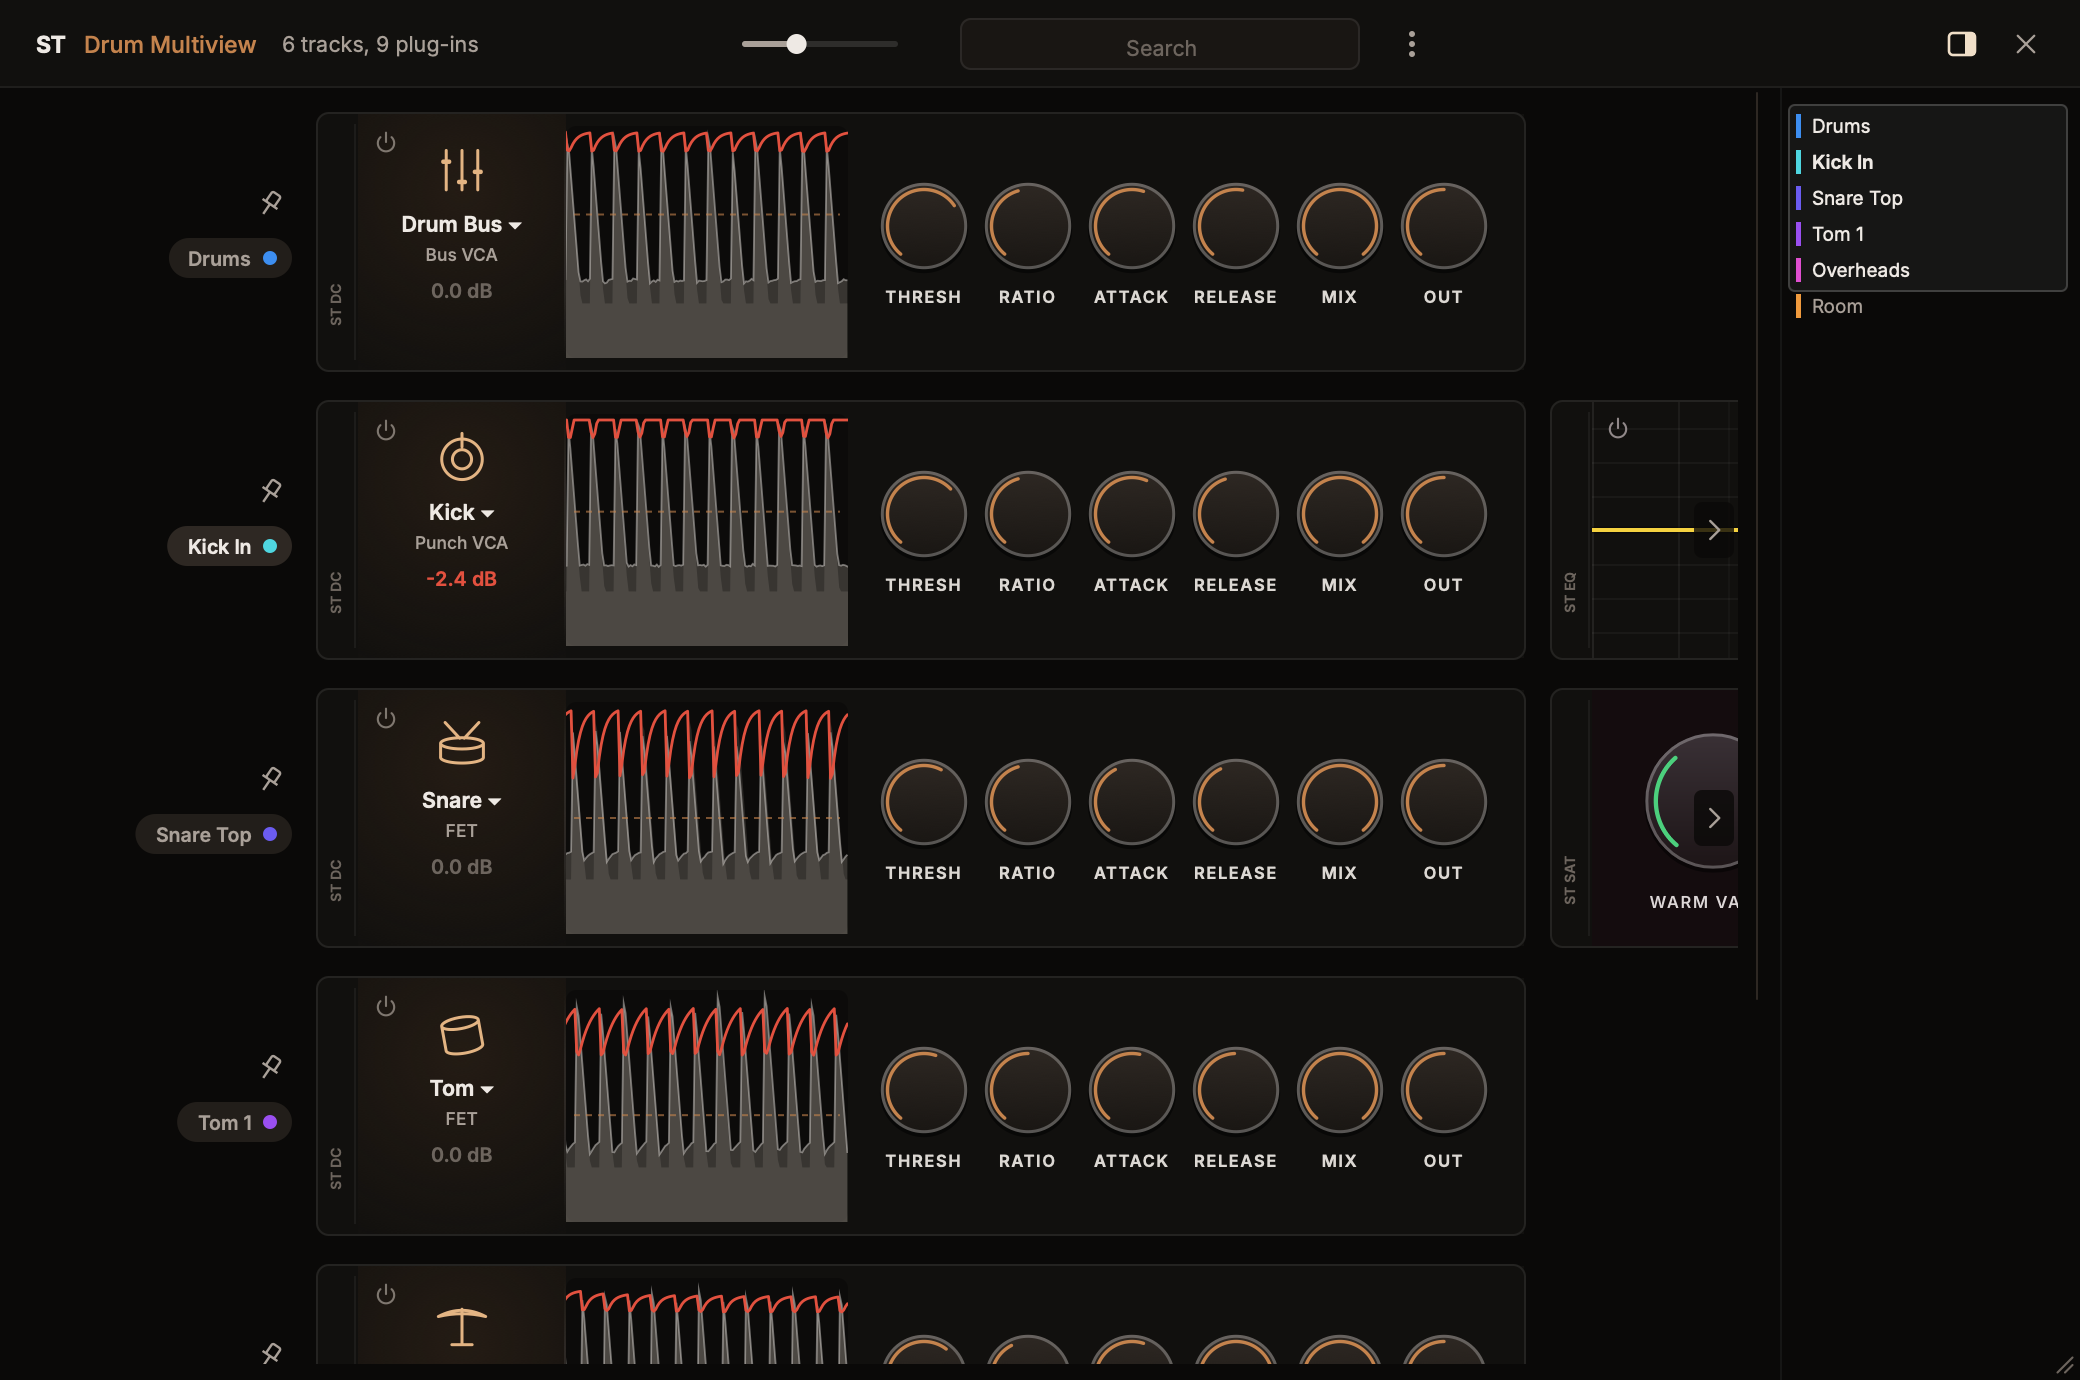
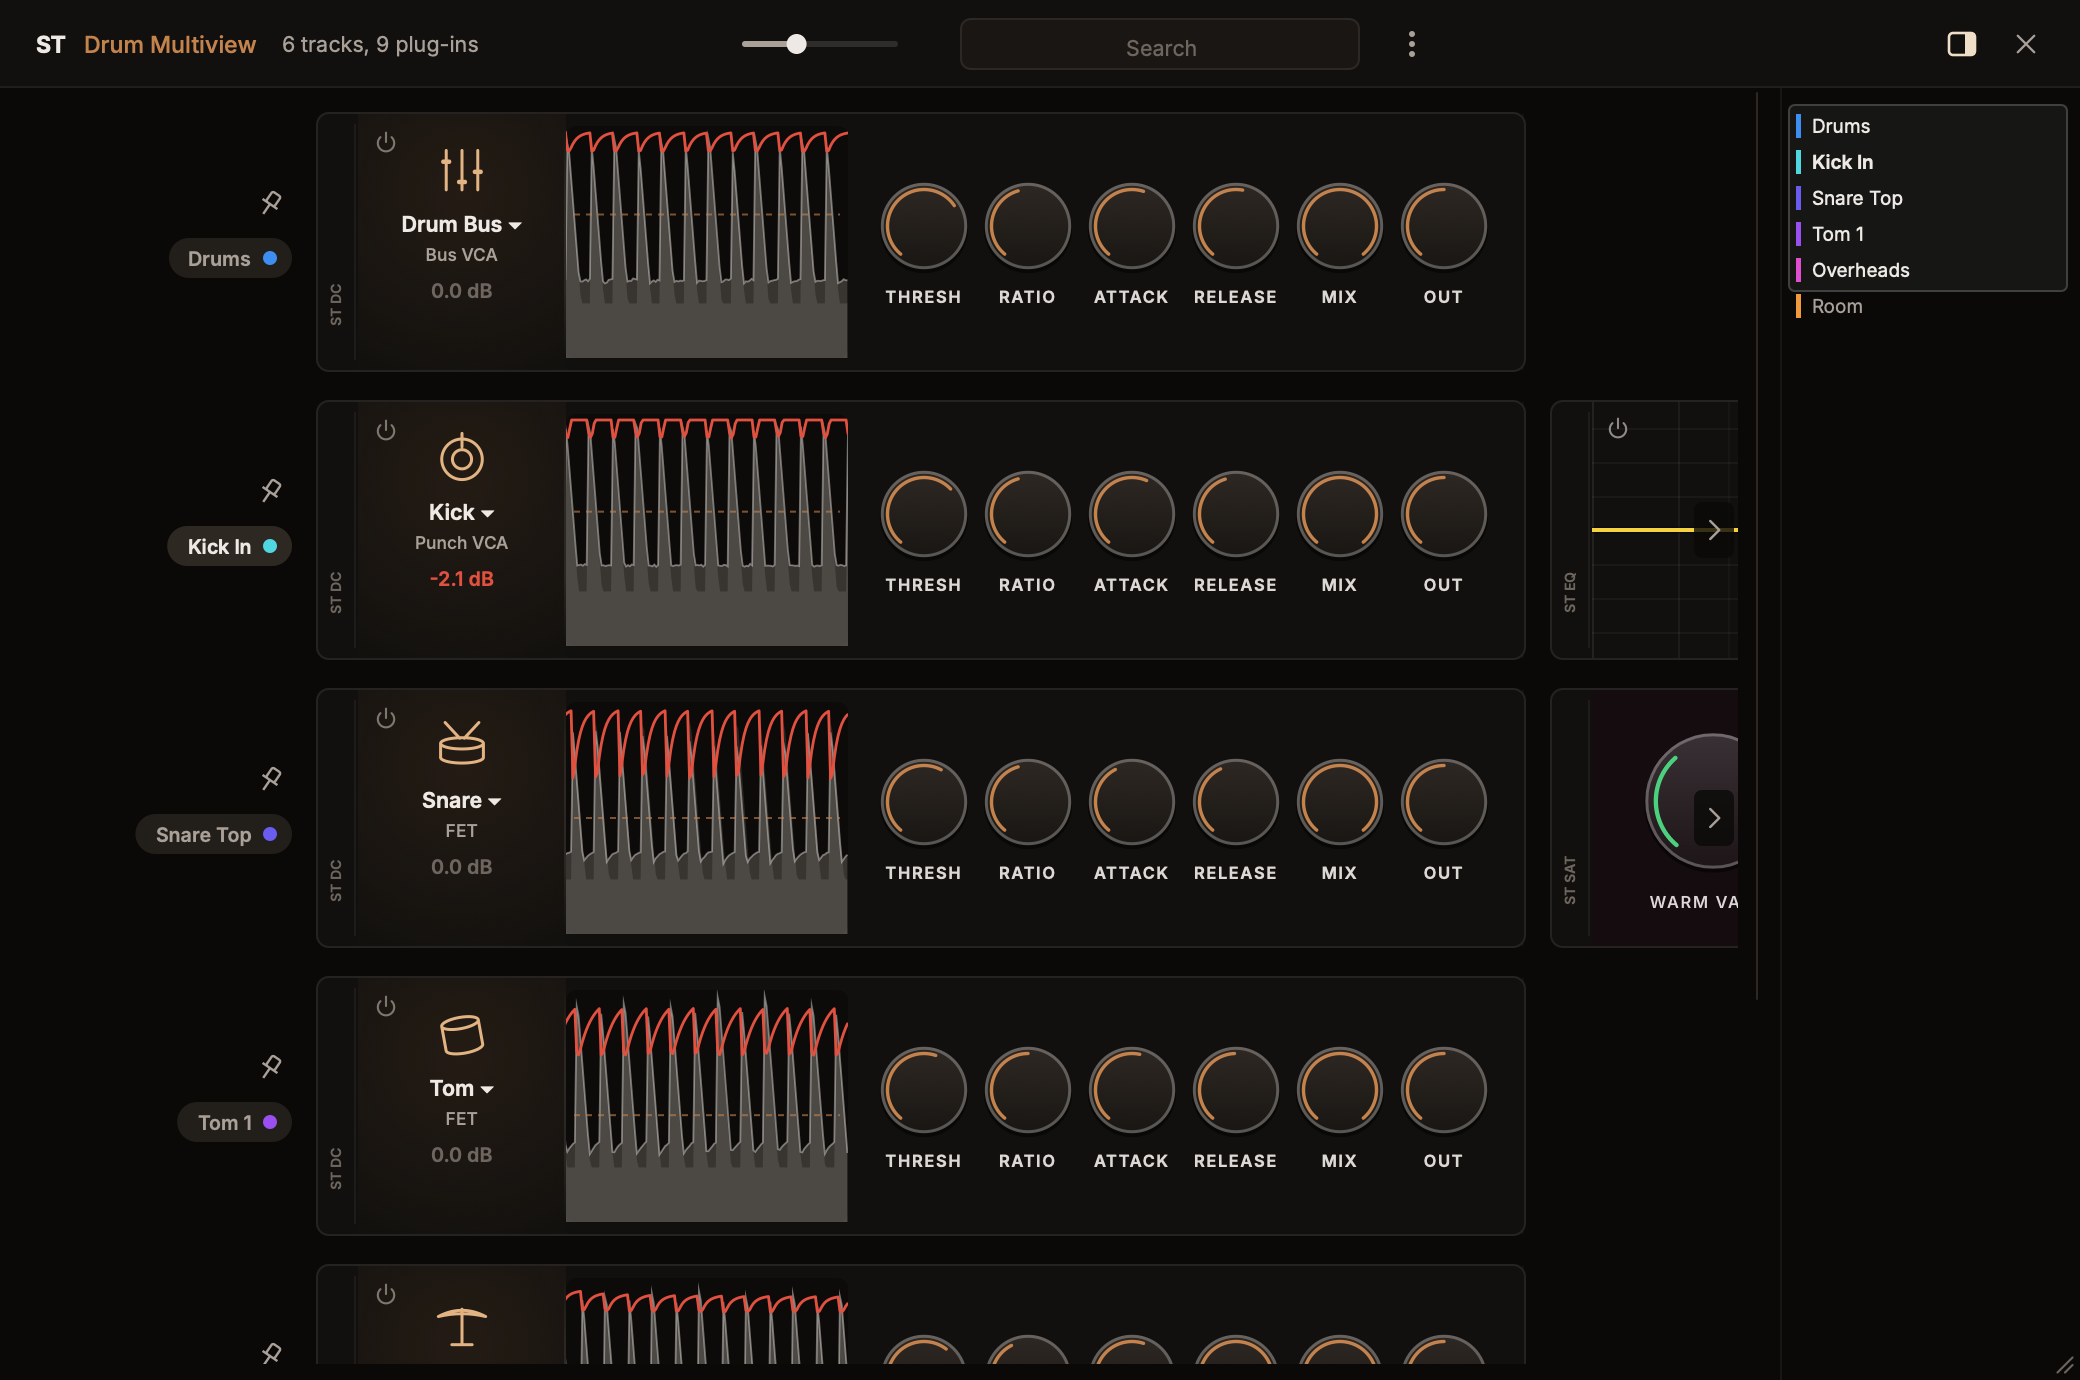
Drum part sidebar: just the part names (0.1.3)
The engine each part runs is no longer printed under its name; the
Engine menu above the threshold and the caption on the level display
still show it.

Changed region(s): [[0.25, 0.2804, 0.4062, 0.4051], [0.2188, 0.4051, 0.25, 0.4362]]

diff --git a/Source/ui/Panels.cpp b/Source/ui/Panels.cpp
@@ -25,10 +25,9 @@ int RoleSelector::rowAt (juce::Point<float> p) const
 
 void RoleSelector::timerCallback()
 {
-    const int r = proc.getRole(), e = proc.apvts.getRawParameterValue (ids::engine)->load() > 0.5f ? (int) proc.getAlgorithm() : -1;
-    bool dirty = r != role || e != engine;
+    const int r = proc.getRole();
+    bool dirty = r != role;
     role = r;
-    engine = e;
     lit.setTarget ((float) role);
     dirty |= lit.tick (1.0 / 60.0, 16.0f);
     if (dirty) repaint();
@@ -58,18 +57,10 @@ void RoleSelector::paint (juce::Graphics& g)
         const auto glyphCol = sel ? t.accent2 : (over ? t.text : t.textDim.withAlpha (0.85f));
         style::drawRoleGlyph (g, i, juce::Rectangle<float> (24.0f, 24.0f).withCentre ({ r.getX() + 22.0f, r.getCentreY() }), glyphCol, sel ? 1.6f : 1.3f);
 
-        auto text = r.withTrimmedLeft (42.0f);
+        // just the part's name (the engine is in the Engine menu above the threshold)
         g.setFont (st::fonts::semibold (13.0f));
         g.setColour (sel ? t.text : (over ? t.text.withAlpha (0.9f) : t.textDim));
-        g.drawText (info.name, text.removeFromTop (r.getHeight() * 0.56f).withTrimmedTop (3.0f), juce::Justification::bottomLeft, false);
-
-        // the engine this part runs (the override engine, in amber, for the selected part when it's set)
-        const bool overridden = sel && engine >= 0;
-        const juce::String eng = overridden ? juce::String (getAlgorithmInfo (engine).name) + juce::String (juce::CharPointer_UTF8 (" \xe2\x80\xa2"))
-                                            : juce::String (getAlgorithmInfo ((int) info.algorithm).name);
-        g.setFont (st::fonts::medium (10.5f));
-        g.setColour (overridden ? t.accent2 : (sel ? t.textDim : t.textFaint));
-        g.drawText (eng, text.withTrimmedTop (1.0f), juce::Justification::topLeft, false);
+        g.drawText (info.name, r.withTrimmedLeft (42.0f), juce::Justification::centredLeft, false);
     }
 }
 

diff --git a/Source/ui/Panels.h b/Source/ui/Panels.h
@@ -4,7 +4,7 @@
 namespace stdc
 {
 
-/** The drum-part selector: one lit row per part (glyph, name and the engine it runs). Picking a part switches the
+/** The drum-part selector: one lit row per part (glyph and name). Picking a part switches the
     engine and moves the controls to that part's starting point (one undo step). */
 class RoleSelector : public juce::Component, public juce::SettableTooltipClient, private juce::Timer
 {
@@ -22,7 +22,7 @@ public:
 
 private:
     StDcProcessor& proc;
-    int hover = -1, role = -1, engine = -1;
+    int hover = -1, role = -1;
     st::Animated lit;   // selection glides between rows
     juce::Rectangle<float> rowBounds (int i) const;
     int rowAt (juce::Point<float>) const;

diff --git a/README.md b/README.md
@@ -26,8 +26,8 @@ The builds are ad-hoc signed; if macOS blocks them run
 | Room | **FET All** — FET with every ratio engaged: over-compressing curve, faster release, much more distortion | "All buttons in" with the fastest attack and release is the standard room-mic crush: aggressive, distorted, pumping, bringing up the room and shell resonance. Starts at 70% mix so some of the room's own sound stays. |
 | Verb | **Vari-Mu** — tube feedback compressor whose ratio rises gradually with gain reduction, with even harmonics | I didn't find a clear published convention for compressing reverb returns, so this one is a judgment call: a very soft-kneed, slow, tube-coloured compressor makes the tail denser and more even without clamping it. For ducking the verb under the dry kit, use the **Verb Ducker (Side-Chain)** preset and feed the dry drums into the side-chain. |
 
-You can run any engine on any part (the **Engine** menu above the threshold): the part's row then shows the override
-in amber.
+You can run any engine on any part with the **Engine** menu above the threshold; the engine that's running is named
+at the top left of the level display.
 
 Sources used for the choices above: Vintage King, ["The best compressors for mixing drums"](https://vintageking.com/blog/the-best-compressors-for-mixing-drums/);
 Sweetwater, ["All-button mode: Universal Audio 1176"](https://www.sweetwater.com/insync/all-button-mode-universal-audio-1176-really-explosive-drum/);
